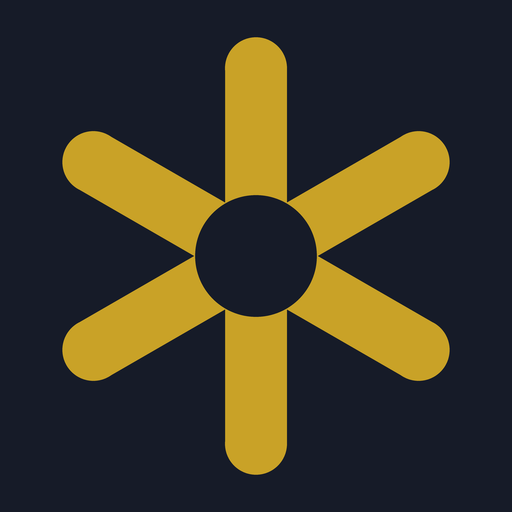
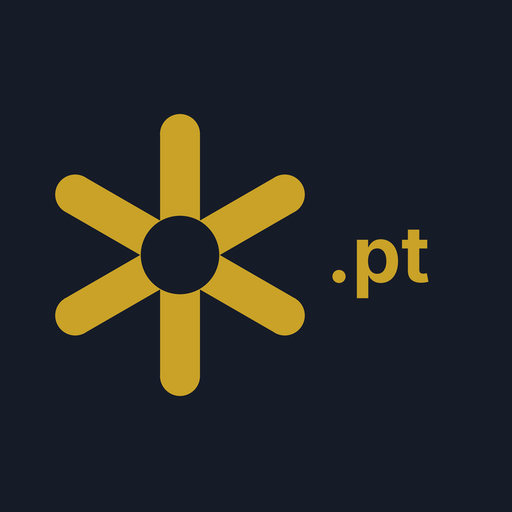
iajus-pt 1.5.6: diretório de plugins do Claude (privacidade/termos, skills sem pré-autorização MCP, README de instalação e dados) - rafaelob/iajus#1588

Changed region(s): [[0.0938, 0.0625, 0.875, 0.9375]]

diff --git a/plugins/iajus-pt/README.md b/plugins/iajus-pt/README.md
@@ -36,20 +36,58 @@ de normas: para o texto de uma lei, a fonte oficial é o Diário da República
 O corpus é VIVO e cresce continuamente; órgãos e anos novos aparecem na pesquisa
 sem alteração de plugin.
 
-## Como ligar
+## Como instalar e ligar
 
 O cliente MCP autentica por si. A autenticação canónica é **OAuth 2.1**: no primeiro uso, o
 Claude abre o navegador para iniciar sessão em `app.iajus.com.br`. Não é preciso colar nenhuma
 chave.
 
-- **Claude Desktop / claude.ai:** adicione o conector com o URL
-  `https://pt.mcp.iajus.com.br/mcp`; o login OAuth abre no primeiro uso.
-- **Claude Code:** instale o plugin a partir do marketplace IAJUS; o `.mcp.json` já aponta o
+- **Claude Code:** instale o plugin a partir do marketplace IAJUS.pt; o `.mcp.json` já aponta o
   host PT e usa OAuth.
+
+  ```text
+  /plugin marketplace add https://github.com/rafaelob/iajus-plugin-public-pt
+  /plugin install iajus-pt@iajus-pt
+  /reload-plugins
+  ```
+
+- **claude.ai e Cowork:** em **Customize > Plugins > Add > Add marketplace**, indique
+  `https://github.com/rafaelob/iajus-plugin-public-pt` e instale o `iajus-pt`; depois ligue o
+  servidor `iajus-pt` no separador **Connectors** do plugin. O login OAuth abre no navegador.
+- **Só o conector (sem as skills):** adicione um conector com o URL
+  `https://pt.mcp.iajus.com.br/mcp`; o login OAuth abre no primeiro uso.
 
 **Alternativa (canal privado/CLI):** uma chave `ik_*` no cabeçalho `Authorization: Bearer`.
 Nunca cole a chave em conversa nem em commit. Um **401** significa sessão ou chave em falta ou
 expirada: refaça o login ou reveja a chave.
+
+## Como autorizar as ferramentas
+
+Nenhum plugin autoriza ferramentas sozinho: a autorização é sempre uma configuração local do
+utilizador, e as skills não pré-autorizam nenhuma.
+
+- **Claude Code:** para não aprovar cada chamada, acrescente ao `~/.claude/settings.json`
+  (global) ou ao `.claude/settings.local.json` (do projeto):
+
+  ```json
+  { "permissions": { "allow": ["mcp__plugin_iajus-pt_iajus-pt__*"] } }
+  ```
+
+  Uma ferramenta de plugin chama-se `mcp__plugin_<plugin>_<servidor>__<ferramenta>`; aqui o
+  plugin e o servidor chamam-se ambos `iajus-pt`, e o `*` cobre todas as ferramentas.
+- **claude.ai e Cowork:** no separador **Connectors** do plugin, abra o conector `iajus-pt` e
+  escolha, ferramenta a ferramenta, quais ficam sempre permitidas.
+
+## Dados, privacidade e suporte
+
+- **O que o plugin envia:** só as chamadas de ferramenta que o Claude faz ao servidor MCP
+  `https://pt.mcp.iajus.com.br/mcp` (a consulta e os parâmetros de pesquisa), com o token OAuth
+  da sessão. O plugin não tem hooks, scripts nem servidor local: não executa comandos, não lê
+  ficheiros e não guarda dados na máquina do utilizador.
+- **Política de privacidade:** <https://iajus.pt/privacidade>.
+- **Termos de utilização:** <https://iajus.pt/termos>.
+- **Suporte:** <https://iajus.pt/contacto>.
+- Não inclua dados pessoais, credenciais nem outros dados sensíveis nas consultas.
 
 ## Notas
 

diff --git a/plugins/iajus-pt/CHANGELOG.md b/plugins/iajus-pt/CHANGELOG.md
@@ -3,6 +3,16 @@
 Todas as alterações relevantes deste plugin são registadas aqui. Formato baseado em
 [Keep a Changelog](https://keepachangelog.com/pt-BR/1.0.0/).
 
+## [1.5.6] - 2026-09-27
+
+### Corrigido
+- Ajustes pedidos pela verificação do diretório de plugins do Claude. O manifesto passa a
+  declarar a política de privacidade e os termos de utilização, e as quatro skills deixam de
+  pré-autorizar ferramentas MCP em `allowed-tools`: cada chamada segue as permissões do próprio
+  utilizador. O README explica como autorizá-las no Claude Code, no claude.ai e no Cowork, e o
+  que o plugin envia ao servidor.
+- As entradas antigas deste registo descrevem o ícone sem citar o caminho do ficheiro.
+
 ## [1.5.5] - 2026-09-20
 
 ### Corrigido
@@ -23,7 +33,7 @@ Todas as alterações relevantes deste plugin são registadas aqui. Formato base
 ## [1.5.3] - 2026-09-19
 
 ### Adicionado
-- Logo servida em `iajus.pt/icon-512.png` no bundle (`assets/iajus-pt-icon-512.png`) e pacote
+- Logo IAJUS.pt de 512 px, a mesma que o site serve, no bundle e no pacote
   de submissão ChatGPT (`saas/clients/plugin_pt/`: 8 tools do perfil `pt`, MCP
   `https://pt.mcp.iajus.com.br/mcp`, ZIPs das quatro skills). Não é o plugin brasileiro de 28
   tools. Publicação no marketplace e no Plugin Directory da OpenAI continua a ser do ARQ.

diff --git a/plugins/iajus-pt/skills/verificar-citacoes-pt/SKILL.md b/plugins/iajus-pt/skills/verificar-citacoes-pt/SKILL.md
@@ -1,7 +1,6 @@
 ---
 name: verificar-citacoes-pt
 description: 'Confere uma a uma as citações de jurisprudência PORTUGUESA de um texto (peça, parecer, alegações, minuta) contra os registos e ligações de origem devolvidos pelo MCP IAJUS, com veredicto por citação: CONFIRMADA / DIVERGENTE / NÃO LOCALIZADA / FORA DE ÂMBITO. Accione em "confira os acórdãos citados", "este acórdão existe ou foi inventado?", "valide os precedentes desta peça". NÃO pesquisa de raiz nem confere normas ou vigência.'
-allowed-tools: mcp__iajus-pt__buscar_regex, mcp__plugin_iajus-pt_iajus-pt__buscar_regex, mcp__iajus-pt__buscar_fts, mcp__plugin_iajus-pt_iajus-pt__buscar_fts, mcp__iajus-pt__buscar_hibrida, mcp__plugin_iajus-pt_iajus-pt__buscar_hibrida, mcp__iajus-pt__buscar_semantica, mcp__plugin_iajus-pt_iajus-pt__buscar_semantica, mcp__iajus-pt__buscar_qualificada, mcp__plugin_iajus-pt_iajus-pt__buscar_qualificada
 ---
 
 # Verificar citações de jurisprudência portuguesa (IAJUS)

diff --git a/plugins/iajus-pt-codex/CHANGELOG.md b/plugins/iajus-pt-codex/CHANGELOG.md
@@ -2,6 +2,14 @@
 
 Formato baseado em [Keep a Changelog](https://keepachangelog.com/pt-BR/1.0.0/).
 
+## [1.5.6] - 2026-09-27
+
+### Corrigido
+- Acompanha a versão da gémea Claude, que deixou de pré-autorizar ferramentas MCP para cumprir
+  a verificação do diretório de plugins do Claude. Nas skills Codex, `allowed-tools` mantém-se;
+  o corpo de cada skill continua idêntico ao da gémea Claude.
+- As entradas antigas deste registo descrevem o ícone sem citar o caminho do ficheiro.
+
 ## [1.5.5] - 2026-09-20
 
 ### Corrigido
@@ -21,7 +29,7 @@ Formato baseado em [Keep a Changelog](https://keepachangelog.com/pt-BR/1.0.0/).
 ## [1.5.3] - 2026-09-19
 
 ### Adicionado
-- Mesma alteração da gémea Claude: logo `iajus.pt/icon-512.png` no bundle e pacote ChatGPT
+- Mesma alteração da gémea Claude: logo IAJUS.pt de 512 px no bundle e no pacote ChatGPT
   do perfil `pt` (8 tools). Skills continuam byte-idênticas entre os dois.
 
 ## [1.5.2] - 2026-09-18

diff --git a/plugins/iajus-pt/skills/pesquisar-jurisprudencia-pt/SKILL.md b/plugins/iajus-pt/skills/pesquisar-jurisprudencia-pt/SKILL.md
@@ -1,7 +1,6 @@
 ---
 name: pesquisar-jurisprudencia-pt
 description: Pesquisa e cita jurisprudência portuguesa real (Supremo Tribunal de Justiça, Tribunais da Relação, STA, TCA-Sul/Norte, Tribunal Constitucional, Conflitos, Tribunal de Contas) pelo MCP IAJUS - modalidades semântica, híbrida, texto integral e regex. Acione para acórdão, descritor, sumário, ECLI, tese firmada ou entendimento de um tribunal português.
-allowed-tools: mcp__iajus-pt__buscar_semantica, mcp__plugin_iajus-pt_iajus-pt__buscar_semantica, mcp__iajus-pt__buscar_hibrida, mcp__plugin_iajus-pt_iajus-pt__buscar_hibrida, mcp__iajus-pt__buscar_fts, mcp__plugin_iajus-pt_iajus-pt__buscar_fts, mcp__iajus-pt__buscar_regex, mcp__plugin_iajus-pt_iajus-pt__buscar_regex, mcp__iajus-pt__buscar_qualificada, mcp__plugin_iajus-pt_iajus-pt__buscar_qualificada
 ---
 
 # Pesquisar jurisprudência portuguesa (IAJUS)

diff --git a/plugins/iajus-pt/skills/fora-de-ambito-pt/SKILL.md b/plugins/iajus-pt/skills/fora-de-ambito-pt/SKILL.md
@@ -1,7 +1,6 @@
 ---
 name: fora-de-ambito-pt
 description: 'Responde honestamente ao que o corpus português da IAJUS NÃO serve: legislação portuguesa (leis, decretos-leis, códigos), doutrina, vigência e classificação temática. Accione quando pedirem "qual a lei que regula X", "o que diz o artigo N.º do Código Civil", "esta norma ainda está em vigor", ou quando uma tool devolver uma recusa do servidor. Impede que o assistente cite direito português de memória e encaminha para o Diário da República e para a jurisprudência que aplica a norma.'
-allowed-tools: mcp__iajus-pt__buscar_fts, mcp__plugin_iajus-pt_iajus-pt__buscar_fts, mcp__iajus-pt__buscar_regex, mcp__plugin_iajus-pt_iajus-pt__buscar_regex
 ---
 
 # O que esta superfície não serve, e como responder mesmo assim (IAJUS)

diff --git a/plugins/iajus-pt/skills/estado-corpus-pt/SKILL.md b/plugins/iajus-pt/skills/estado-corpus-pt/SKILL.md
@@ -1,7 +1,6 @@
 ---
 name: estado-corpus-pt
 description: Mostra o que o corpus português da IAJUS contém AGORA (por tribunal, ano e acervo) pelo MCP IAJUS. Acione antes de concluir que "não existe" jurisprudência para um tribunal/ano - um resultado vazio na pesquisa pode ser cobertura em andamento, e esta skill confirma o que já está na base.
-allowed-tools: mcp__iajus-pt__obter_estatisticas_base, mcp__plugin_iajus-pt_iajus-pt__obter_estatisticas_base
 ---
 
 # Estado do corpus português (IAJUS)
